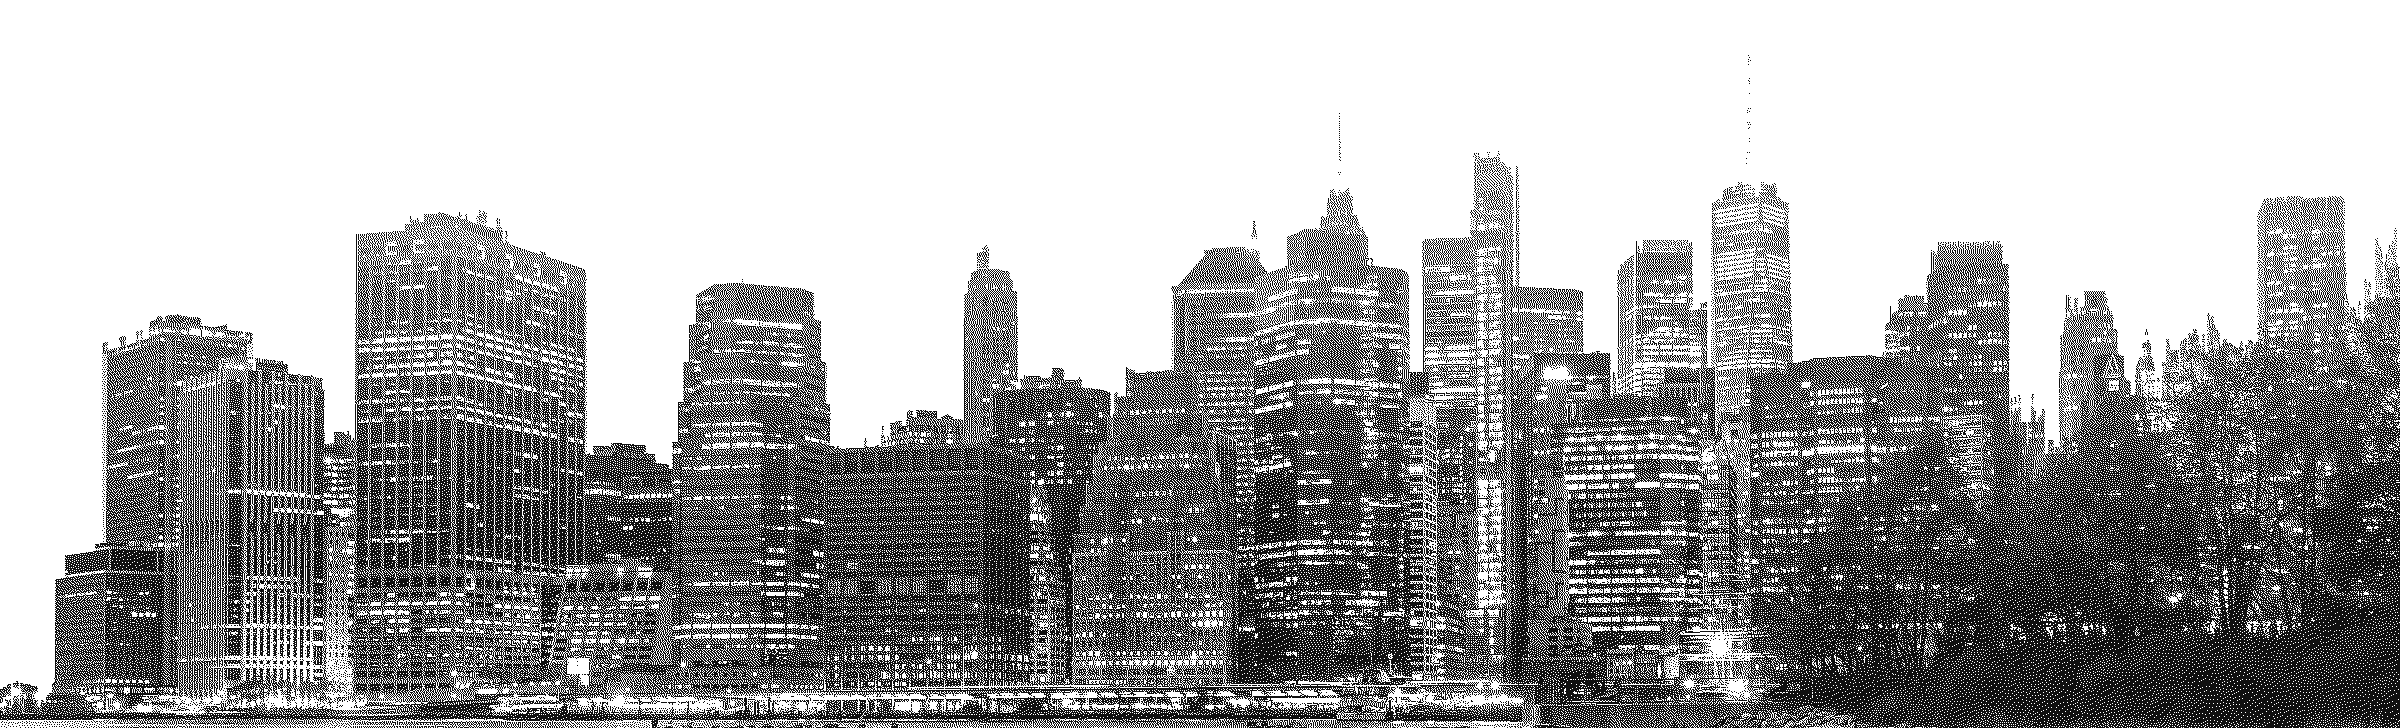
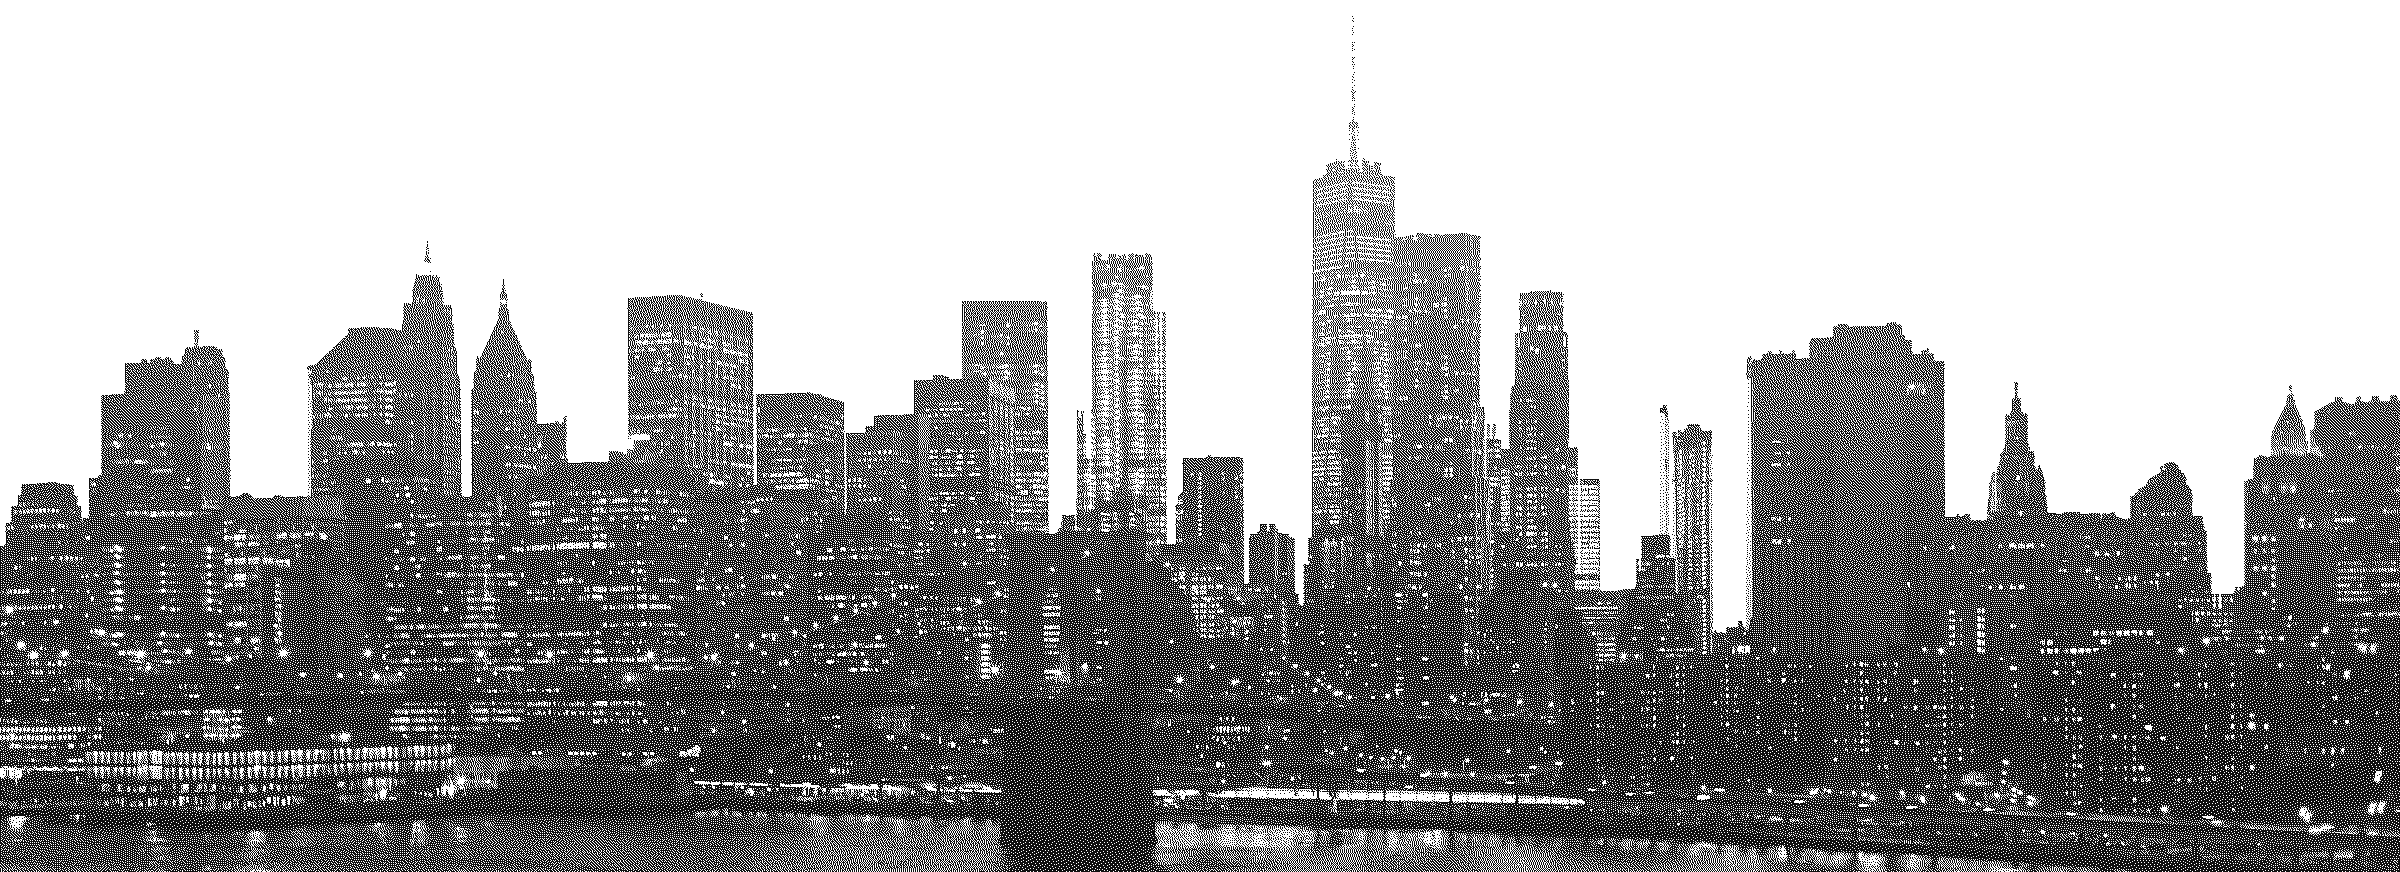
Hero: dithered skyline derived from the client's Lower Manhattan photo

diff --git a/src/components/sites/corgi-insure-a0f7893c/root-8a5edab2/HeroSection.tsx b/src/components/sites/corgi-insure-a0f7893c/root-8a5edab2/HeroSection.tsx
@@ -53,8 +53,8 @@ export function HeroSection() {
           alt=""
           src={SKYLINE_SRC}
           width={2400}
-          height={728}
-          className="absolute bottom-[64px] left-1/2 h-auto w-[1300px] max-w-none -translate-x-1/2 opacity-[0.32] [mask-image:linear-gradient(to_bottom,transparent_0%,black_60%)] md:w-[1600px] lg:w-[1900px]"
+          height={872}
+          className="absolute bottom-[64px] left-1/2 h-auto w-[1400px] max-w-none -translate-x-1/2 opacity-[0.38] [mask-image:linear-gradient(to_bottom,transparent_0%,black_55%)] md:w-[1800px] lg:w-[2100px]"
         />
         <div className="absolute inset-0 bg-[rgba(79,179,255,0.05)] mix-blend-multiply" />
         <div className="absolute inset-0 bg-gradient-to-b from-[rgba(246,246,246,0)] from-[72%] to-[#f6f6f6] to-[95%]" />

diff --git a/docs/ATTRIBUTION.md b/docs/ATTRIBUTION.md
@@ -1,7 +1,6 @@
 # Asset attribution
 
-- **Hero skyline (dithered)** — derived from "2024-11-17-Lower Manhattan-0593.jpg" by Superbass, Wikimedia Commons,
-  licensed CC BY-SA 4.0 (https://commons.wikimedia.org/wiki/File:2024-11-17-Lower_Manhattan-0593.jpg).
-  The derivative (1-bit dithered silhouette at `public/sites/corgi-insure-a0f7893c/root-8a5edab2/images/hero/nyc-skyline-dither.png`)
-  is shared under the same license; keep this credit if the image ships.
+- **Hero skyline (dithered)** — 1-bit dithered derivative of the Lower Manhattan / Brooklyn Bridge dusk photo supplied by the
+  client (`public/sites/corgi-insure-a0f7893c/root-8a5edab2/images/hero/nyc-skyline-dither.png`). Confirm the client holds
+  rights to the source photo before shipping.
 - **Mascot (bull)** — generated for FundLine Capital (gpt-image via Higgsfield); background removed locally.
